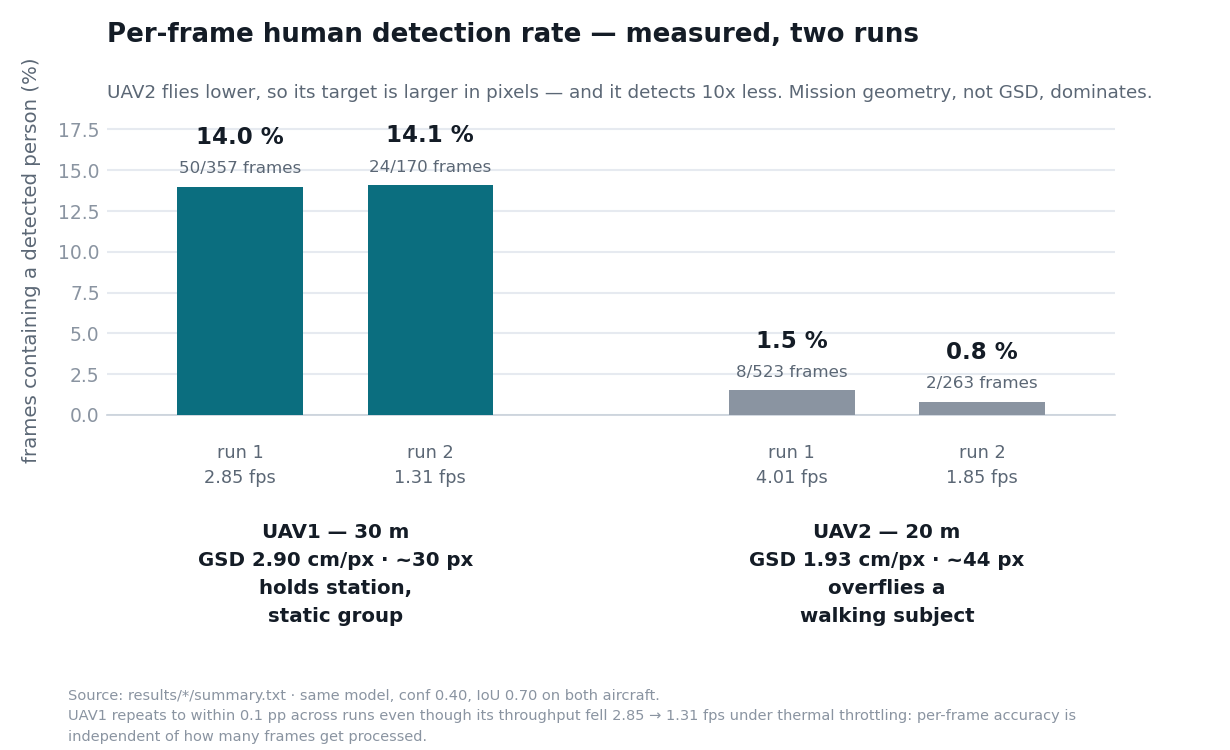
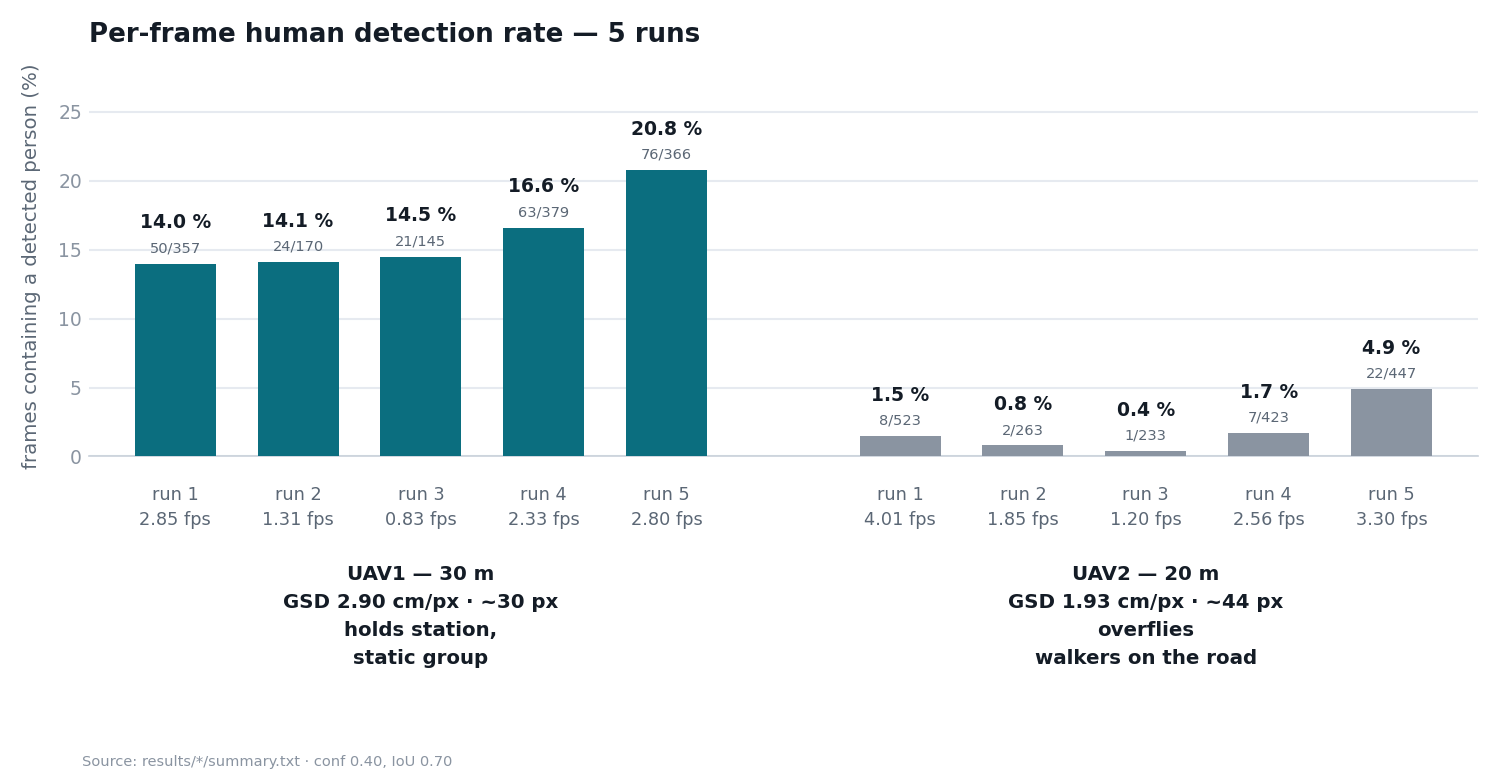
chore: refresh the detection chart with runs 4 and 5
Run 5 is the first flight with three walkers on road_x_1 instead of one.
UAV2 went 1.7 -> 4.9 % and UAV1 16.6 -> 20.8 %.

    UAV1  14.0  14.1  14.5  16.6  20.8 %
    UAV2   1.5   0.8   0.4   1.7   4.9 %

Layout and wording had gone stale with five runs: labels collided, the
title still said "two runs", the subtitle claimed UAV2 detects "10x
less" (now about 4x), and the footnote claimed UAV1 repeats to within
0.1 pp, which stopped being true once the world changed. Title is now
generated from the run count, the stale prose is gone, and the UAV2
caption says "walkers on the road" rather than "a walking subject".

diff --git a/scripts/make_detection_chart.py b/scripts/make_detection_chart.py
@@ -28,7 +28,7 @@ OUT = ROOT / "report" / "detection_rate.png"
 # Altitude is read per run from that run's own mission log, because the config
 # only ever describes the most recent flight.
 GEOMETRY = {"UAV1": "holds station,\nstatic group",
-            "UAV2": "overflies a\nwalking subject"}
+            "UAV2": "overflies\nwalkers on the road"}
 ALT_FALLBACK = {"UAV1": 30.0, "UAV2": 20.0}
 
 W_PX, H_PX, HFOV, PITCH, PERSON_M = 640, 384, 0.6, math.radians(45), 1.7
@@ -144,7 +144,7 @@ def main():
             return
 
     uavs = ["UAV1", "UAV2"]
-    fig, ax = plt.subplots(figsize=(8.2, 5.0), dpi=150)
+    fig, ax = plt.subplots(figsize=(10.0, 5.2), dpi=150)
     fig.patch.set_facecolor("white")
     ax.set_facecolor("white")
 
@@ -167,13 +167,14 @@ def main():
 
     bars = ax.bar(xs, heights, width=0.66, color=colors, zorder=3)
 
+    # Five runs per aircraft: the labels have to shrink or they collide.
     for (x, run_lbl, frac, fps), h in zip(sublabels, heights):
         ax.annotate(f"{h:.1f} %", (x, h), textcoords="offset points",
-                    xytext=(0, 18), ha="center", va="bottom",
-                    fontsize=11, fontweight="bold", color=INK)
-        ax.annotate(f"{frac} frames", (x, h), textcoords="offset points",
-                    xytext=(0, 5), ha="center", va="bottom",
-                    fontsize=8, color=MUTED)
+                    xytext=(0, 15), ha="center", va="bottom",
+                    fontsize=9, fontweight="bold", color=INK)
+        ax.annotate(frac, (x, h), textcoords="offset points",
+                    xytext=(0, 4), ha="center", va="bottom",
+                    fontsize=7, color=MUTED)
         ax.annotate(f"{run_lbl}\n{fps:.2f} fps", (x, 0), textcoords="offset points",
                     xytext=(0, -14), ha="center", va="top",
                     fontsize=8.5, color=MUTED, linespacing=1.5)
@@ -188,7 +189,7 @@ def main():
                     ha="center", va="top", fontsize=9.5, color=INK,
                     linespacing=1.6, fontweight="bold")
 
-    ax.set_ylim(0, 19)
+    ax.set_ylim(0, max(heights) * 1.28 + 1)
     ax.set_xlim(-0.7, pos - 1.2)
     ax.set_xticks([])
     ax.set_ylabel("frames containing a detected person (%)",
@@ -200,21 +201,13 @@ def main():
         ax.spines[side].set_visible(False)
     ax.spines["bottom"].set_color("#C9D1DA")
 
-    ax.set_title("Per-frame human detection rate — measured, two runs",
-                 fontsize=12.5, fontweight="bold", color=INK, pad=30, loc="left")
-    ax.text(0, 1.022,
-            "UAV2 flies lower, so its target is larger in pixels — and it detects "
-            "10x less. Mission geometry, not GSD, dominates.",
-            transform=ax.transAxes, fontsize=8.8, color=MUTED)
+    ax.set_title(f"Per-frame human detection rate — {len(runs)} runs",
+                 fontsize=12.5, fontweight="bold", color=INK, pad=16, loc="left")
 
-    fig.text(0.055, 0.012,
-             "Source: results/*/summary.txt · same model, conf 0.40, IoU 0.70 on both aircraft.\n"
-             "UAV1 repeats to within 0.1 pp across runs even though its throughput fell "
-             "2.85 → 1.31 fps under thermal throttling: per-frame accuracy is\n"
-             "independent of how many frames get processed.",
-             fontsize=7, color=FAINT, linespacing=1.6)
+    fig.text(0.055, 0.018, "Source: results/*/summary.txt · conf 0.40, IoU 0.70",
+             fontsize=7, color=FAINT)
 
-    fig.tight_layout(rect=[0, 0.135, 1, 1])
+    fig.tight_layout(rect=[0, 0.115, 1, 1])
     OUT.parent.mkdir(exist_ok=True)
     fig.savefig(OUT, facecolor="white", edgecolor="none")
     print(f"  {OUT.relative_to(ROOT)}  {OUT.stat().st_size // 1024} KB")
